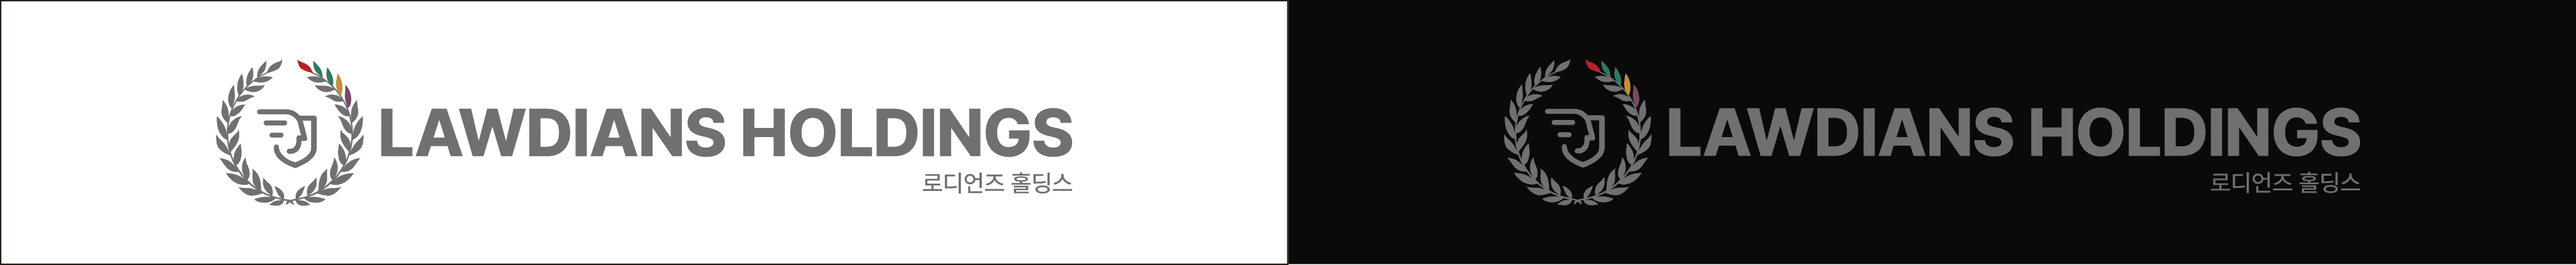
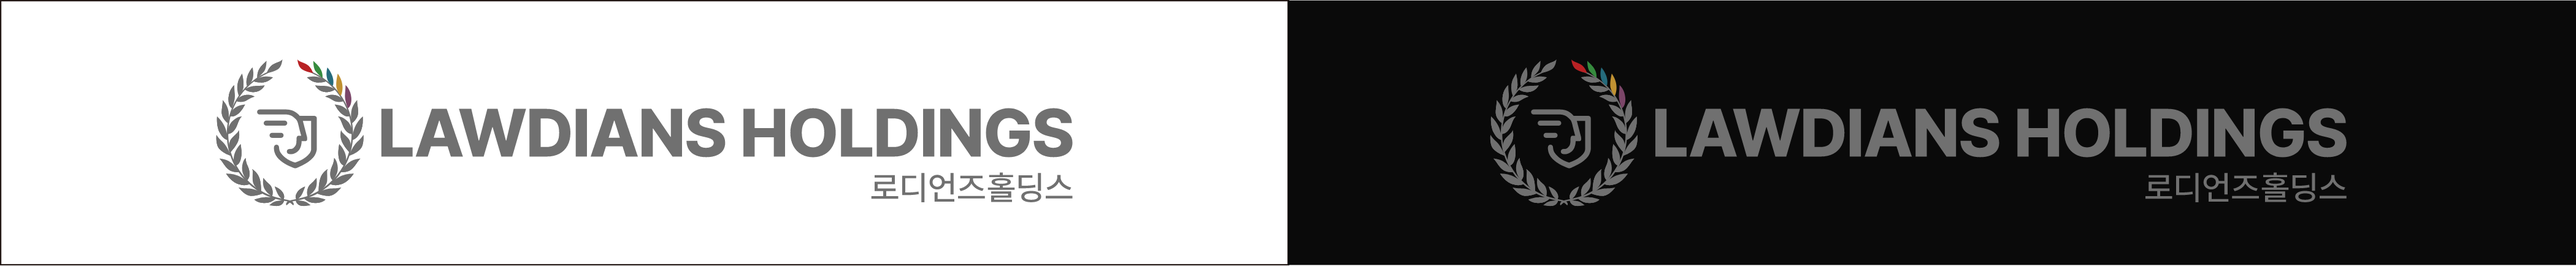
fix: 인사말 멘트 띄어쓰기 오타 수정 fix: 회사소개 탑 이미지 수정 및 사이즈 조정 fix: 컴포넌트 탑 멘트 수정 fix: 푸터 글자 오류 수정 fix: 헤더 드롭다운 위치 서로 맞춤 fix: 홈 히스토리 가로 => 세로 수정 fix: 비즈니스 서비스 카드 멘트 추가 및 css 수정 fix: 바디 탑 띄어쓰기 오타 수정 fix:  bici 이미지 변경 fix: 푸터 및 헤더 로고 변경

diff --git a/components/LandingPage/Body/History/History.tsx b/components/LandingPage/Body/History/History.tsx
@@ -1,101 +1,14 @@
+import { useState } from "react";
 import styles from "./History.module.scss";
 import className from "classnames/bind";
-import HistoryContent from "./HistoryContent/HistoryContent";
 const cx = className.bind(styles);
 
 export default function History() {
-  const years = [2016, 2017, 2018, 2019, 2020, 2021, 2022, 2023];
-  const title = [
-    "로디언즈 설립",
-    "사회적 기업가 육성 사업 선정",
-    "블록체인 기술 개발",
-    "블록체인 국가 R&D 선정",
-    "블록체인 기술 사업화 지원 사업",
-    "정보보호관리체계 획득",
-    "기술혁신형 중소기업",
-    "청년친화 강소기업",
-  ];
-  const month = [
-    <>
-      <span>2016.09</span>
-      <span>2016.11</span>
-    </>,
-    <>
-      <span>2017.01</span>
-      <span>2017.03</span>
-    </>,
-    <>
-      <span>2018.07</span>
-      <span>2018.12</span>
-      <span>2018.12</span>
-    </>,
-    <>
-      <span>2019.12</span>
-    </>,
-    <>
-      <span>2020.08</span>
-      <span>2020.12</span>
-    </>,
-    <>
-      <span>2021.06</span>
-      <span>2021.09</span>
-      <span>2021.12</span>
-    </>,
-    <>
-      <span>2022.02</span>
-      <span>2022.11</span>
-    </>,
-    <>
-      <span>2023.01</span>
-    </>,
-  ];
-
-  const content = [
-    <>
-      <span>로디언즈 설립</span>
-      <span>성균관대학교 창업드림캠프 최우수상</span>
-    </>,
-    <>
-      <span>&apos;의료사고 발생 전 변호사 선임 방법&apos; 특허 획득</span>
-      <span>사회적 기업가 육성 사업 선정</span>
-    </>,
-    <>
-      <span>세대 융합 창업 캠퍼스 사업 선정</span>
-      <span>블록체인 청년 혁신가 선정</span>
-      <span>
-        도약 기술 개발사업 선정
-        <br />
-        (블록체인 기술 개발/중소기업정보진흥원)
-      </span>
-    </>,
-    <>
-      <span>블록체인 국가 R&D 선정</span>
-    </>,
-    <>
-      <span>한국무역보험공사 수출지원 프로그램 선정</span>
-      <span>SBA 블록체인 기술 사업화 지원 사업 선정</span>
-    </>,
-    <>
-      <span>신진여성연구원 산업지원 선정</span>
-      <span>정보보호관리체계(ISMS) 인증 획득 / 한국인터넷진흥원</span>
-      <span>가상자산사업자 신고 / 금융위원회</span>
-    </>,
-    <>
-      <span>기술혁신형 중소기업 (Inno-Biz) 취득</span>
-      <span>
-        내일채움공제 완료 : 6명 이상
-        <br />
-        산학연 협력 우수과제 표창
-      </span>
-    </>,
-    <>
-      <span>청년친화 강소기업 선정</span>
-    </>,
-  ];
+  const [click, setClick] = useState(false);
   return (
     <div className={cx("container")}>
       <div className={cx("wrap")}>
-        <div className={cx("bg")} />
+        <div className={cx(!click ? "bg" : "bg2")} />
         <div className={cx("text_wrap")}>
           <h1 className={cx("title")}>HISTORY</h1>
           <div className={cx("content")}>
@@ -104,20 +17,9 @@ export default function History() {
             <span>2023</span>
           </div>
         </div>
-        <div className={cx("mobile_wrap")}>
-          <div className={cx("mobile_bg")} />
-          <div className={cx("mobile_text_wrap")}>
-            {years.map((year, idx) => (
-              <HistoryContent
-                key={idx}
-                year={year}
-                title={title[idx]}
-                month={month[idx]}
-                content={content[idx]}
-              />
-            ))}
-          </div>
-        </div>
+        <button className={cx("btn")} onClick={() => setClick((prev) => !prev)}>
+          {!click ? "더보기" : "접기"}
+        </button>
       </div>
     </div>
   );

diff --git a/components/LandingPage/Body/History/History.module.scss b/components/LandingPage/Body/History/History.module.scss
@@ -12,8 +12,8 @@
     display: none;
   }
   @include view("mobile") {
-    height: 375px;
-    font-size: 9px;
+    width: 100vw;
+    height: auto;
   }
 }
 
@@ -23,8 +23,7 @@
   height: 100%;
   @include view("mobile") {
     display: flex;
-    align-content: center;
-    align-items: center;
+    justify-content: center;
   }
 }
 
@@ -41,9 +40,18 @@
     width: 1920px;
   }
   @include view("mobile") {
-    width: 2607px;
+    height: 155vw;
     background-image: url("/img/body/bg2_m.png");
+    position: relative;
   }
+}
+
+.bg2 {
+  width: 100%;
+  height: 233vw;
+  background-image: url("/img/body/bg2_2.png");
+  background-size: 100% 100%;
+  position: relative;
 }
 
 .text_wrap {
@@ -61,10 +69,7 @@
     width: 1920px;
   }
   @include view("mobile") {
-    width: 2607px;
-    padding-top: 30px;
-    align-items: flex-start;
-    padding-left: 25px;
+    display: none;
   }
 }
 
@@ -94,30 +99,21 @@
   }
 }
 
-.mobile_wrap {
+.btn {
+  position: absolute;
+  bottom: 36px;
+  width: 326px;
+  height: 32px;
+  display: flex;
+  background-color: #232323;
+  font-size: 12px;
+  font-weight: bold;
+  justify-content: center;
+  align-items: center;
+  border: none;
+  cursor: pointer;
   display: none;
   @include view("mobile") {
     display: block;
   }
-}
-
-.mobile_bg {
-  width: 2285px;
-  height: 11px;
-  background-image: url("/img/body/history_line.png");
-  background-size: cover;
-  background-position: center;
-  position: absolute;
-  margin-left: 75px;
-  margin-bottom: 30px;
-}
-
-.mobile_text_wrap {
-  min-width: 2520px;
-  height: 11px;
-  position: absolute;
-  margin-left: 75px;
-  margin-top: 30px;
-  display: flex;
-  justify-content: space-between;
 }

diff --git a/components/ComponentTop/ComponentTop.tsx b/components/ComponentTop/ComponentTop.tsx
@@ -198,7 +198,8 @@ export default function ComponentTop({ category, title }: Props) {
                 </div>
                 <div className={cx("flex")}>
                   <div className={cx("bold")}>
-                    &apos;시스템 개발&apos; 및 &apos;운영 관리 시스템&apos;
+                    &apos;블록체인 시스템 개발&apos; 및 &apos;운영 관리
+                    시스템&apos;
                   </div>
                   <div>을</div>
                   <br />
@@ -214,7 +215,7 @@ export default function ComponentTop({ category, title }: Props) {
                 </div>
                 <div className={cx("flex")}>
                   <div className={cx("bold")}>
-                    블록체인에 대한 이해도가 높은 기업
+                    국내 최고의 블록체인기술을 보유한 기업
                   </div>
                   <div>입니다.</div>
                 </div>

diff --git a/components/Footer/Footer.tsx b/components/Footer/Footer.tsx
@@ -22,9 +22,10 @@ export default function Footer() {
             <p>(주)로디언즈홀딩스 | 대표이사 윤창기 </p>
           </div>
           <div className={cx("flex")}>
-            <div>서울특별시 서초구 서초대로 25길 53 | 우편번호 06586&nbsp;</div>
+            <div>서울특별시 서초구 서초대로 25길 53 | 우편번호 06586 </div>
             <div>
-              <span className={cx("pc")}>|&nbsp;</span>사업자번호 544-81-02278
+              <span className={cx("pc")}></span>
+              <span>사업자번호 544-81-02278</span>
             </div>
           </div>
           <p className={cx("reserved")}>

diff --git a/components/CompanyCategory/Greetings/Greetings.tsx b/components/CompanyCategory/Greetings/Greetings.tsx
@@ -36,8 +36,9 @@ export default function Greetings() {
                 </div>
                 <div>&nbsp;및&nbsp;</div>
               </div>
-              <div className={cx("bold")}>
-                &apos;운영 관리 시스템&apos;을 자체적으로 개발, 운영해왔으며,
+              <div className={cx("line_one")}>
+                <div className={cx("bold")}>&apos;운영 관리 시스템&apos;</div>
+                <div>을 자체적으로 개발, 운영해왔으며,</div>
               </div>
               <div className={cx("line_one")}>
                 <div className={cx("bold")}>

diff --git a/components/Footer/Footer.module.scss b/components/Footer/Footer.module.scss
@@ -180,7 +180,7 @@
 .flex {
   display: flex;
   margin-bottom: 20px;
-  font-weight: 500;
+  font-weight: 600;
   @include view("mobile") {
     flex-direction: column;
     margin-bottom: 10px;
@@ -188,7 +188,11 @@
 }
 
 .pc {
-  @include view("mobile") {
-    display: none;
+  &::before {
+    content: "|";
+    margin: 0 5px;
+    @include view("mobile") {
+      display: none;
+    }
   }
 }

diff --git a/components/LandingPage/Body/Service/ServiceCard/ServiceCard.module.scss b/components/LandingPage/Body/Service/ServiceCard/ServiceCard.module.scss
@@ -68,13 +68,12 @@
   @include view("mobile") {
     font-size: 25px;
     margin-top: 0;
-    margin-bottom: 132px;
+    margin-bottom: 110px;
   }
 }
 
 .content_wrap {
   font-size: 18px;
-
   height: 130px;
   span {
     font-weight: bold;
@@ -85,6 +84,7 @@
   @include view("mobile") {
     font-size: 15px;
     margin-bottom: 20px;
+    height: 80px;
   }
 }
 

diff --git a/components/LandingPage/Body/Top/Top.tsx b/components/LandingPage/Body/Top/Top.tsx
@@ -28,7 +28,7 @@ export default function Top() {
         <div className={cx("text_wrap")}>
           <h1 className={cx("title")}>
             <span>LAWDIANS</span>
-            <span>HOLDINGS</span>
+            <span> HOLDINGS</span>
           </h1>
           <div>
             <div className={cx("content")}>

diff --git a/components/CompanyCategory/Introduce/Introduce.module.scss b/components/CompanyCategory/Introduce/Introduce.module.scss
@@ -240,12 +240,13 @@
   justify-content: center;
   @include view("mobile") {
     display: flex;
+    margin: 20px 0;
   }
 }
 
 .mobile_top {
-  width: 63vw;
-  height: 95vw;
+  width: 100vw;
+  height: 93vw;
   background-image: url("/img/Introduce/bg1_m.png");
   background-size: 100% 100%;
 }

diff --git a/components/Header/Header.module.scss b/components/Header/Header.module.scss
@@ -109,7 +109,7 @@
   justify-content: space-around;
   align-items: center;
   padding-top: 80px;
-  margin-top: -15px;
+  margin-top: -10px;
   font-weight: normal;
   @include view("very_small") {
     height: 60px;
